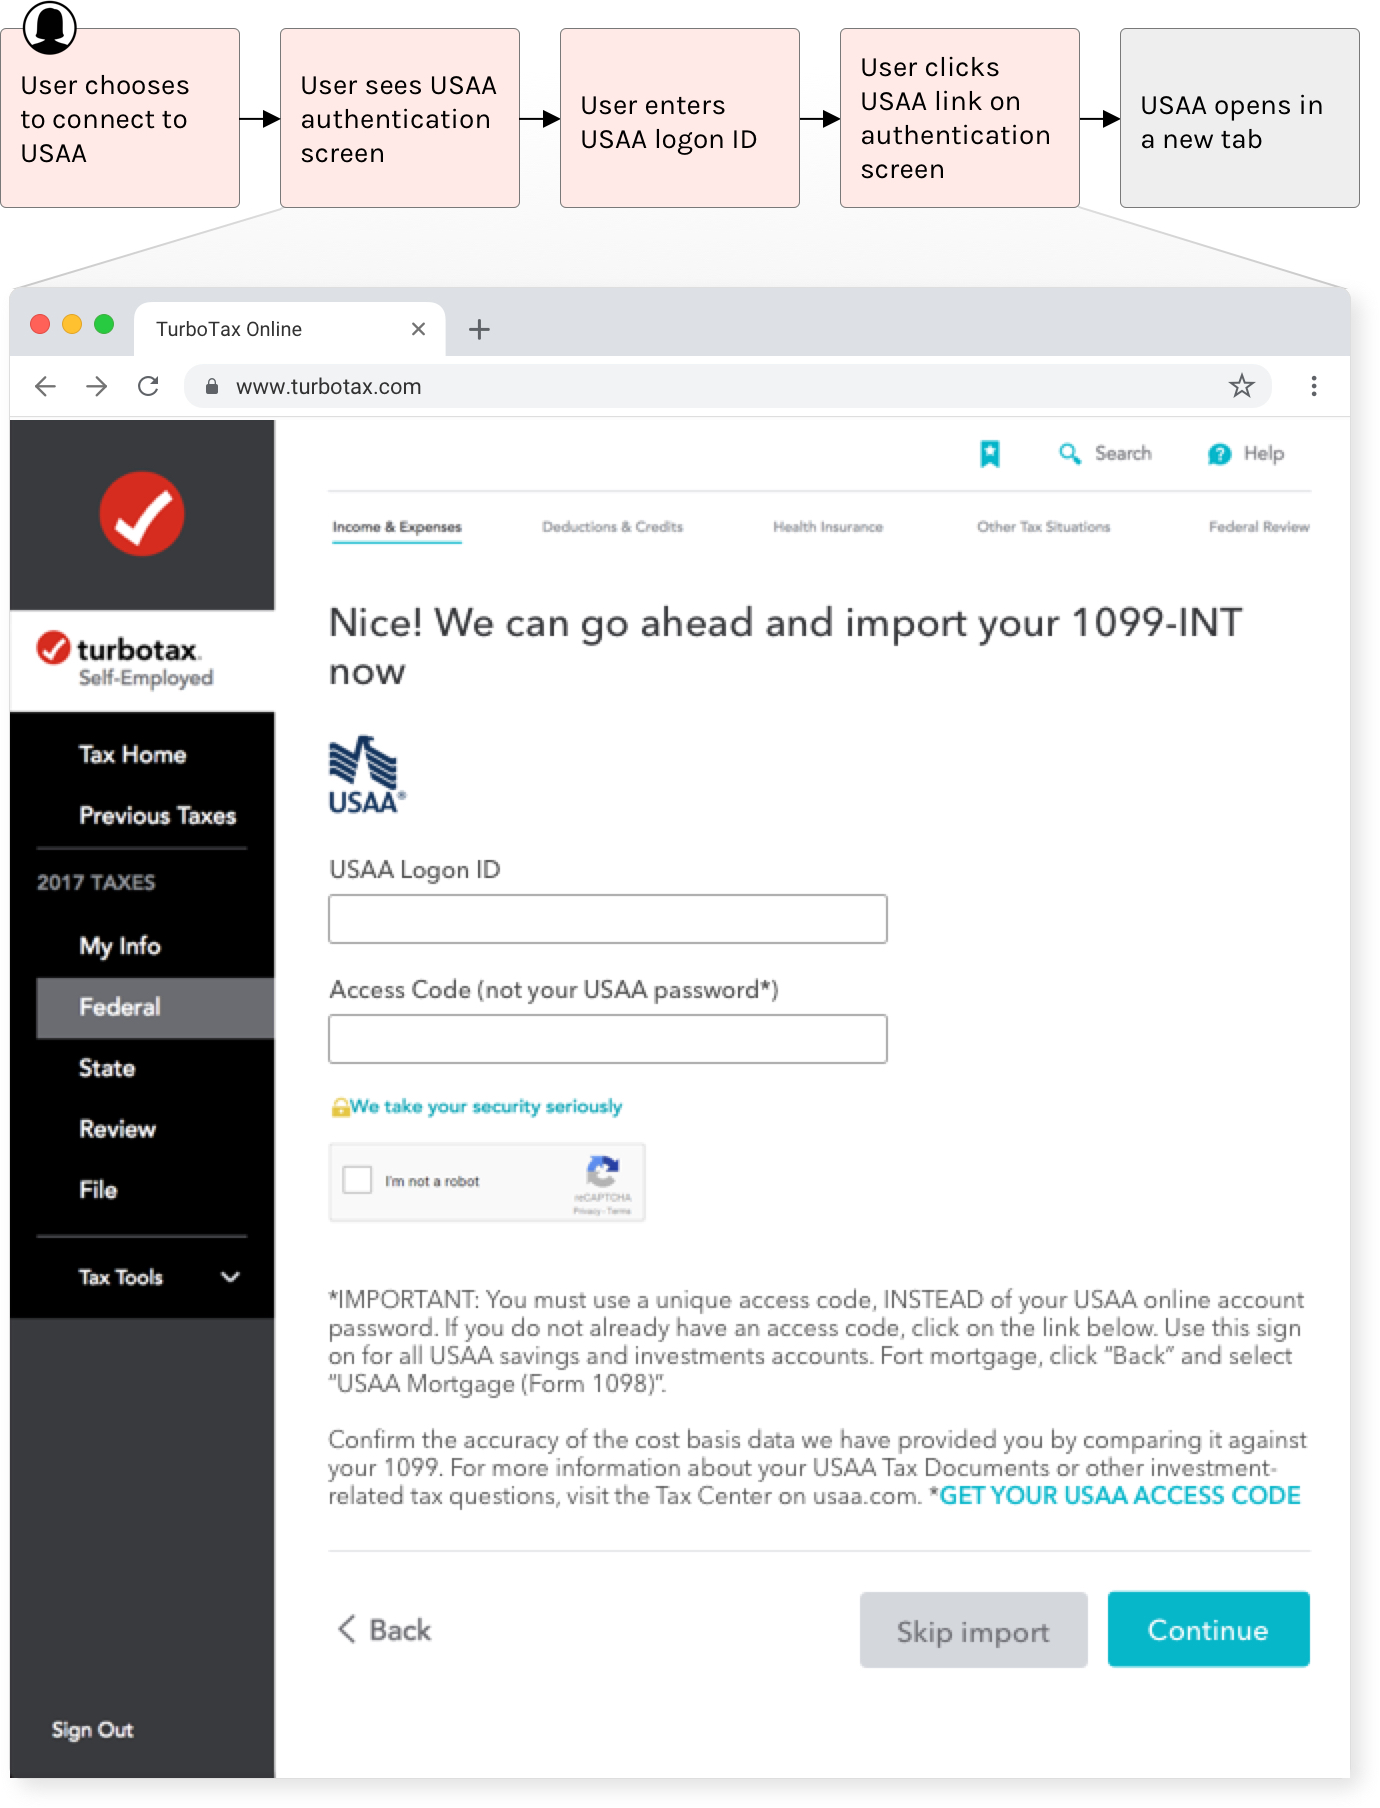
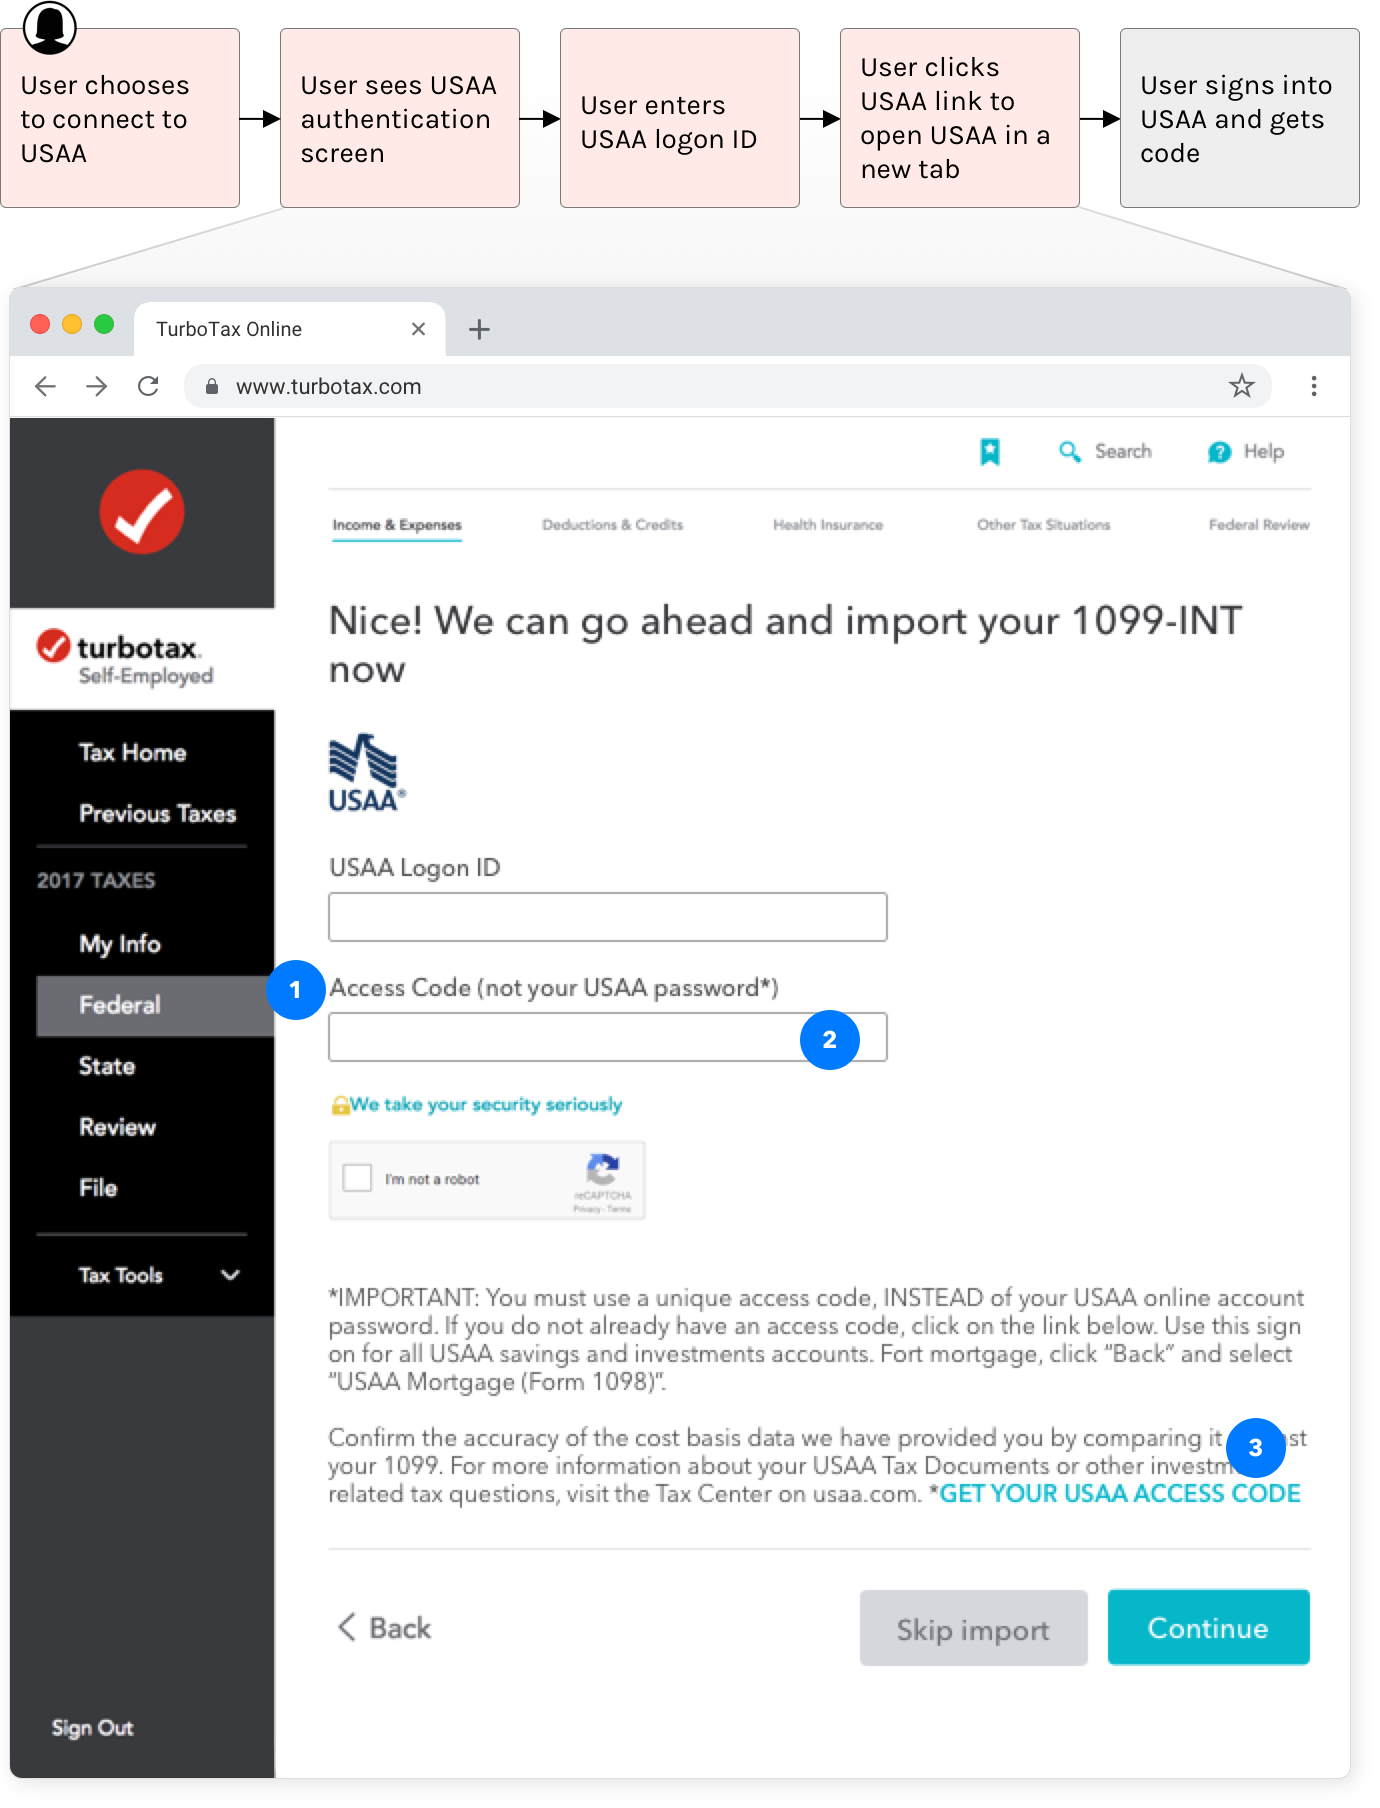
updated case study

diff --git a/turbotax.html b/turbotax.html
@@ -34,7 +34,7 @@
                                     <a class="nav-link" href="#">Work</a>
                                 </li>
                                 <li class="nav-item">
-                                    <a class="nav-link" href="resume.html">About</a>
+                                    <a class="nav-link" href="about.html">About</a>
                                 </li>
                                 <li class="nav-item">
                                     <a class="nav-link" href="#contact">Contact</a>
@@ -52,7 +52,7 @@
                         <div class="row"></div>
                         <div class="row d-none d-sm-block"></div>
                         <h1>Helping tax filers get USAA tax info into TurboTax</h1>
-                        <h6><span style="color: #df9389;">Platform product designer</span></h6>
+                        <h6><span style="color: #df9389;">Product designer - Platform</span></h6>
                         <h6><span style="color: #a1a1a1;">Nov 2017 - Jan 2018</span></h6>
                     </div>
                     <div class="col-md-5">
@@ -144,7 +144,7 @@
                 <div class="row row-case">
                     <div class="col-md-12">
                         <h3>TurboTax's initial experience</h3>
-                        <p>In TurboTax, most banks request username and password to authenticate and import data into the product. Unlike these banks, USAA asks filers for username and a special access code, which can only obtained via a unique link to USAA’s bank site.</p>
+                        <p>In TurboTax, most banks request username and password to authenticate and import data into the product. Unlike these banks, USAA asks filers for username and a unique tax form import code, which can only obtained via a unique link to USAA’s bank site.</p>
                     </div>
                 </div>
 
@@ -161,6 +161,8 @@
                     <img src="images/ttousualflowchart.jpg" class="img-fluid img-2x">
                 </div>
             <div>
+            
+            <div class="row"></div>
 
             <div class="container">
                 <div class="row row-case">
@@ -185,7 +187,7 @@
                     </div>
                     <div class="col-md-9">
                         <p>
-                            I focused on how TurboTax was instructing users to get their access code and had several hypotheses with where users were running into trouble. I prototyped the control experience in Axure ran usability tests with 10 US users who were customers of both USAA and TurboTax. Test bank credentials were provided to the participants.
+                            I focused on how TurboTax was instructing users to get their import code and had several hypotheses with where users were running into trouble. I prototyped the control experience in Axure ran usability tests with 10 US users who were customers of both USAA and TurboTax. Test bank credentials were provided to the participants.
                         </p>
                     </div>
                 </div>
@@ -203,10 +205,10 @@
                     <div class="col-md-9">
                         <ol>
                             <li>
-                                No one succeeded on their first try, all users tried their password instead of access code
+                                No one succeeded on their first try, all users tried their password instead of code
                             </li>
                             <li>
-                                Users focus on authentication fields and don't read instructions
+                                Users focus on authentication fields and don't read instructions or long field labels
                             </li>
                             <li>
                                 No one saw the link to USAA's site in the legal text on the first try
@@ -240,7 +242,7 @@
                 <hr class="hr-case-bot">
                 <div class="row row-case">
                     <div class="col-md-3">
-                        <h3>First round of ideation and testing</h3>
+                        <h3>Ideation</h3>
                     </div>
                     <div class="col-md-9">
                         <p>I brainstormed ideas and narrowed on 2 ideas to test based on prioritizing user benefit, team feedback, project timelines, current product patterns, and contractual agreements with USAA.</p>
@@ -248,19 +250,46 @@
                 </div>
                 
                 <div class="row row-case">
-                    <div class="col-md-12">
-                        <h3>Version A &#8212; 2-step flow</h3>
-                        <p><b><i>Hypothesis:</i></b> If we separate the instructions from the authentication fields, users can focus on getting the code first then authentication, rather than both at once.</p>
+                    <div class="col-md-3">
+                        <h3>Version A 2-step flow</h3>
                     </div>
-                    <div class="col-md-12">
-                        <h3>Version B &#8212; 3-step flow</h3>
-                        <p><b><i>Hypothesis:</i></b> If we separate the authentication instructions into individual steps, users will pay more attention because the experience differs noticeably from the usual experience.</p>
+                    <div class="col-md-9">
+                            <p><b>Hypothesis:</b> If we separate the instructions from the authentication fields, users can focus on getting the code first then authentication, rather than both at once.</p>
+                            <p><a href="https://kx6zwr.axshare.com/turbotax_2.html" alt="2-step flow prototype" target="_blank">Axure prototype</a></p>
                     </div>
                 </div>
+            </div>
 
+            <div class="row-badge">
+                <div class="parent"> 
+                    <img src="images/2stepflow.jpg" class="img-fluid img-2x">
+                </div>
+            <div>
+            
+            <div class="container">
+                <div class="row"></div>
                 <div class="row row-case">
                     <div class="col-md-3">
-                        <h3>Research method</h3>
+                        <h3>Version B 3-step flow</h3>
+                    </div>
+                    <div class="col-md-9">
+                            <p><b>Hypothesis:</b> If we separate the authentication instructions into individual steps, users will pay more attention because the experience differs noticeably from the usual experience.</p>
+                            <p><a href="https://sjpori.axshare.com/turbotax_2.html" alt="3-step flow prototype" target="_blank">Axure prototype</a></p>
+                    </div>
+                </div>
+            </div>
+
+            <div class="row-badge">
+                <div class="parent"> 
+                    <img src="images/3stepflow.jpg" class="img-fluid img-2x">
+                </div>
+            <div>
+
+            <div class="container">
+                <div class="row"></div>
+                <div class="row row-case">
+                    <div class="col-md-3">
+                        <h3>Testing</h3>
                     </div>
                     <div class="col-md-9">
                         <ul>
@@ -289,25 +318,31 @@
                 <hr class="hr-case-bot">
                 <div class="row row-case">
                     <div class="col-md-12">
-                        <h3>Second round of ideation and testing</h3>
+                        <h3>Further ideation and testing</h3>
                     </div>
+                    
                     <div class="col-md-12">
-                        <p>Despite the success of the 3-step flow over the 2-step flow, there were still usability issues.<br>INSERT IMAGE<br>Discoverability issue: some users didn’t see the link. Instructional issue: some users did not know to click the link</p>
-                        <p>Designing within the constraints of existing product patterns, I created three more concepts and ran the same test.</p>
+                        <p>Despite the success of the 3-step flow over the 2-step flow, there were still usability issues.</p>
+                        <div class="row-badge">
+                            <div class="parent"> 
+                                <img src="images/3steppain.jpg" class="img-fluid img-2x">
+                            </div>
+                        </div>
+                        <div class="row"></div>
+                        <ol>
+                            <li>Instructional issues: some users didn't know to click the link</li>
+                            <li>Discoverability issues: some users didn’t see the link</li>
+                        </ol>
                     </div>
                 </div>
 
                 <div class="row row-case">
                     <div class="col-md-12">
-                        <h3>Version A &#8212; 2-step flow</h3>
-                        <p><b><i>Hypothesis:</i></b> If we separate the instructions from the authentication fields, users can focus on getting the code first then authentication, rather than both at once.</p>
+                        <h3>Version A &#8212; Prominent call-to-action</h3>
+                        <p><b>Hypothesis:</b> If we separate the instructions from the authentication fields, users can focus on getting the code first then authentication, rather than both at once.</p>
                     </div>
                     <div class="col-md-12">
-                        <h3>Version B &#8212; 3-step flow</h3>
-                        <p><b><i>Hypothesis:</i></b> If we separate the authentication instructions into individual steps, users will pay more attention because the experience differs noticeably from the usual experience.</p>
-                    </div>
-                    <div class="col-md-12">
-                        <h3>Version C &#8212; 3-step flow</h3>
+                        <h3>Version B &#8212; Use the primary call-to-action</h3>
                         <p><b><i>Hypothesis:</i></b> If we separate the authentication instructions into individual steps, users will pay more attention because the experience differs noticeably from the usual experience.</p>
                     </div>
                 </div>
@@ -315,7 +350,7 @@
 
                 <div class="row row-case">
                     <div class="col-md-3">
-                            <h3>Research insights</h3>
+                        <h3>Research insights</h3>
                     </div>
                     <div class="col-md-9">
                         <p><span style="font-size: 1.75rem; line-height: 1.2;">Version A was most successful for users</span><br>because it was linear and consistent with existing patterns users were accustomed to in TurboTax. Also, using a verb in the primary button made it clear to users what was next.</p>

diff --git a/about.html b/about.html
@@ -34,7 +34,7 @@
                                     <a class="nav-link" href="#">Work</a>
                                 </li>
                                 <li class="nav-item">
-                                    <a class="nav-link" href="resume.html">About</a>
+                                    <a class="nav-link" href="about.html">About</a>
                                 </li>
                                 <li class="nav-item">
                                     <a class="nav-link" href="#contact">Contact</a>

diff --git a/index.html b/index.html
@@ -34,7 +34,7 @@
                                     <a class="nav-link" href="#">Work</a>
                                 </li>
                                 <li class="nav-item">
-                                    <a class="nav-link" href="resume.html">About</a>
+                                    <a class="nav-link" href="about.html">About</a>
                                 </li>
                                 <li class="nav-item">
                                     <a class="nav-link" href="#contact">Contact</a>
